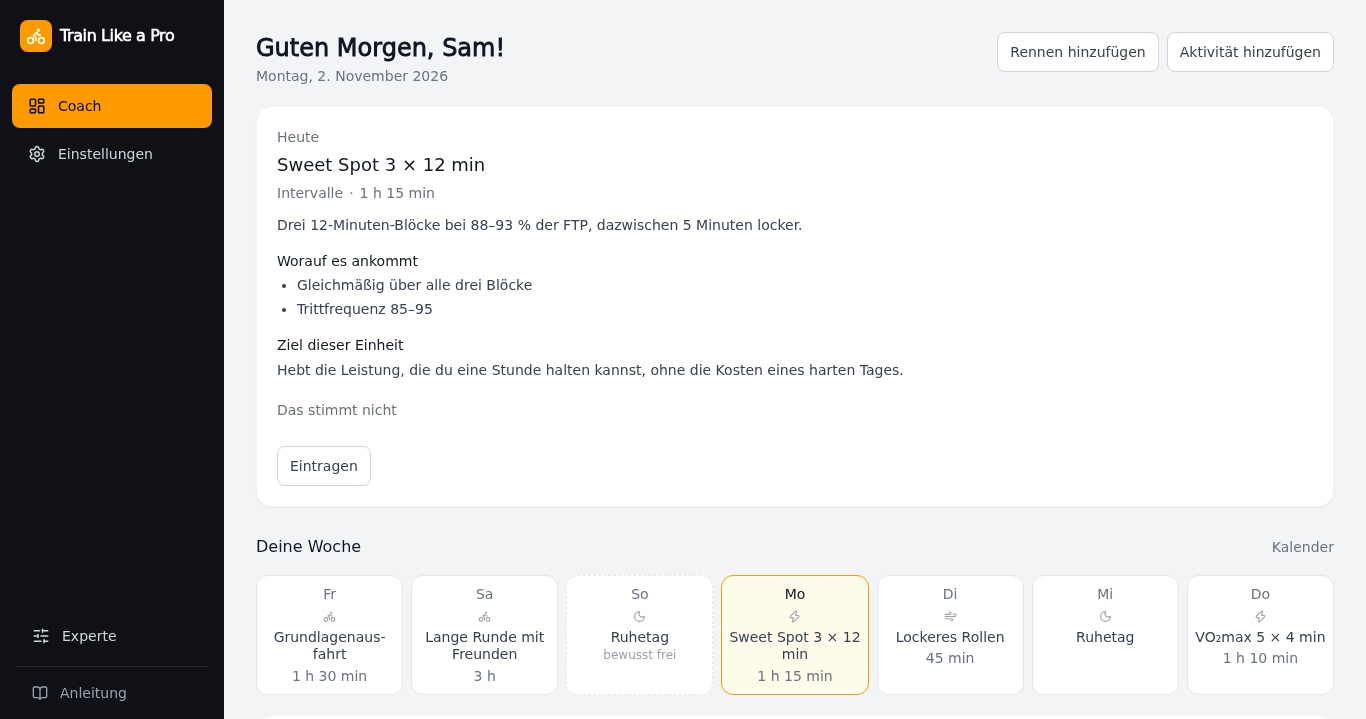
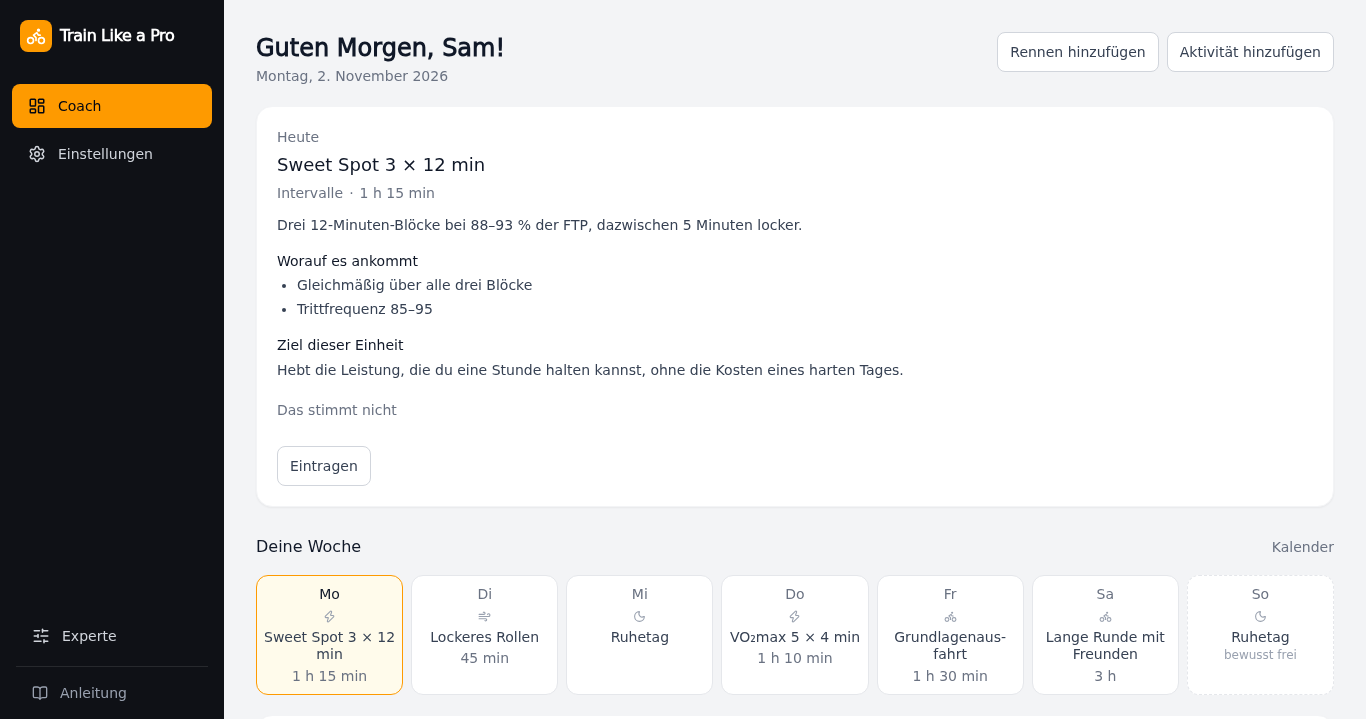
The week strip starts today, and the latest activity is open on the first screen (ai-trainer-ops#338)
The strip showed three days back; those are history, and the newest of
them now has its own card under the week instead of sitting behind "More"
(review of 2026-11-01, UX F4; owner decisions 2026-11-02). The landing
pictures are regenerated with the new strip.

Claude-Session: https://claude.ai/code/session_01GnPNhFWdHPsgsDeyjHr6bd

diff --git a/frontend/src/components/WeekStrip.test.tsx b/frontend/src/components/WeekStrip.test.tsx
@@ -9,7 +9,7 @@ import { setProfile } from '../queries/profile'
 import type { UserProfile } from '../types/domain'
 
 /** A day relative to today, which is where the strip is anchored since #672.
- *  The offsets the strip shows are -3 … +3. */
+ *  The offsets the strip shows are 0 … +6 (ai-trainer-ops#338). */
 const dayOffset = (offset: number) => formatLocalDate(addDays(new Date(), offset))
 
 const plan = (date: string, overrides: Partial<TrainingDay> = {}): TrainingDay => ({
@@ -45,7 +45,7 @@ describe('WeekStrip', () => {
       planTranslations: { 'Endurance Ride': 'Grundlagenfahrt' },
     })
     try {
-      renderStrip([plan(dayOffset(-1), { title: 'Endurance Ride' }), plan(dayOffset(0), { title: 'Recovery Spin' })])
+      renderStrip([plan(dayOffset(1), { title: 'Endurance Ride' }), plan(dayOffset(0), { title: 'Recovery Spin' })])
 
       expect(screen.getByText('Recovery Spin')).toHaveClass('opacity-60')
       expect(screen.getByText('Grundlagenfahrt')).not.toHaveClass('opacity-60')
@@ -55,7 +55,7 @@ describe('WeekStrip', () => {
   })
 
   it('always shows seven days, planned or not', () => {
-    renderStrip([plan(dayOffset(-3)), plan(dayOffset(0), { workoutType: 'rest' })])
+    renderStrip([plan(dayOffset(6)), plan(dayOffset(0), { workoutType: 'rest' })])
 
     // Seven day chips; "Calendar" is absent without a handler.
     expect(screen.getAllByRole('button')).toHaveLength(7)
@@ -66,33 +66,33 @@ describe('WeekStrip', () => {
     ['Sunday', '2026-06-28T09:00:00'],
     ['Monday', '2026-06-29T09:00:00'],
     ['Wednesday', '2026-07-01T09:00:00'],
-  ])('puts today in the middle on a %s', (_weekday, clock) => {
+  ])('puts today first on a %s', (_weekday, clock) => {
     // The old strip ran Monday–Sunday, so on a Sunday it showed six days of
     // history and no upcoming session at all (#672). The window is rolling now,
-    // and the same three days sit either side whatever the weekday.
+    // and starts today whatever the weekday (ai-trainer-ops#338).
     vi.useFakeTimers({ toFake: ['Date'] })
     vi.setSystemTime(new Date(clock))
 
-    renderStrip(Array.from({ length: 7 }, (_, i) => plan(dayOffset(i - 3))))
+    renderStrip(Array.from({ length: 7 }, (_, i) => plan(dayOffset(i))))
 
     const chips = screen.getAllByRole('button')
     expect(chips).toHaveLength(7)
-    expect(chips[3].getAttribute('aria-current')).toBe('date')
+    expect(chips[0].getAttribute('aria-current')).toBe('date')
     expect(chips.filter((chip) => chip.getAttribute('aria-current') === 'date')).toHaveLength(1)
   })
 
-  it('reaches three days back and three days forward', async () => {
+  it('reaches from today six days forward, and not back (ai-trainer-ops#338)', async () => {
     const onSelect = vi.fn()
-    // A weekday name cannot tell the ends apart — day -4 and day +3 share one —
+    // A weekday name cannot tell the ends apart — day -1 and day +6 share one —
     // so the window is read off the chips' own order instead.
-    renderStrip([plan(dayOffset(-4)), plan(dayOffset(4))], { onSelect })
+    renderStrip([plan(dayOffset(-1)), plan(dayOffset(7))], { onSelect })
 
     const chips = screen.getAllByRole('button')
     await userEvent.click(chips[0])
-    expect(onSelect).toHaveBeenCalledWith(dayOffset(-3))
+    expect(onSelect).toHaveBeenCalledWith(dayOffset(0))
 
     await userEvent.click(chips[6])
-    expect(onSelect).toHaveBeenCalledWith(dayOffset(3))
+    expect(onSelect).toHaveBeenCalledWith(dayOffset(6))
 
     // The two planned days sit just outside the window, so nothing is planned
     // inside it: seven empty chips.
@@ -115,7 +115,7 @@ describe('WeekStrip', () => {
     const onSelect = vi.fn()
     const empty = dayOffset(1)
     const weekday = new Date(`${empty}T00:00:00`).toLocaleDateString(undefined, { weekday: 'long' })
-    renderStrip([plan(dayOffset(-2))], { onSelect })
+    renderStrip([plan(dayOffset(2))], { onSelect })
 
     await userEvent.click(screen.getByRole('button', { name: `${weekday} — nothing planned` }))
 
@@ -124,7 +124,7 @@ describe('WeekStrip', () => {
 
   it('spells out for a screen reader what the layout says to the eye', () => {
     // The chip itself reads "Tu", an icon, the title and the duration.
-    const date = dayOffset(-1)
+    const date = dayOffset(1)
     const weekday = new Date(`${date}T00:00:00`).toLocaleDateString(undefined, { weekday: 'long' })
     renderStrip([plan(date, { workoutType: 'recovery' })])
 
@@ -143,7 +143,7 @@ describe('WeekStrip', () => {
 
   it('keeps today as the reference point while another day is selected', () => {
     const today = formatLocalDate(new Date())
-    const other = dayOffset(-2)
+    const other = dayOffset(2)
     renderStrip([plan(today), plan(other)], { selectedDate: other })
 
     const current = screen.getAllByRole('button').filter(
@@ -161,13 +161,13 @@ describe('WeekStrip', () => {
       return [...chip.querySelectorAll('svg')].map((svg) => svg.getAttribute('class'))
     }
     renderStrip([
-      plan(dayOffset(-1), { sport: 'running', title: 'Easy Run' }),
+      plan(dayOffset(3), { sport: 'running', title: 'Easy Run' }),
       plan(dayOffset(0), { sport: 'cycling', title: 'Easy Ride' }),
       plan(dayOffset(1), { sport: 'strength', workoutType: 'strength', title: 'Gym' }),
       plan(dayOffset(2), { sport: 'running', workoutType: 'intervals', title: 'Track' }),
     ])
 
-    expect(dayIcon(-1)).toEqual([expect.stringContaining('lucide-footprints')])
+    expect(dayIcon(3)).toEqual([expect.stringContaining('lucide-footprints')])
     expect(dayIcon(0)).toEqual([expect.stringContaining('lucide-bike')])
     expect(dayIcon(1)).toEqual([expect.stringContaining('lucide-dumbbell')])
     // A type that says what the session is for keeps its own icon in any sport.
@@ -188,7 +188,7 @@ describe('WeekStrip', () => {
   it('marks an untranslated title as English, so it is hyphenated as English (ai-trainer-ops#324)', () => {
     useAppStore.setState({ uiLanguage: 'de', planTranslations: { 'Endurance Ride': 'Grundlagenfahrt' } })
     try {
-      renderStrip([plan(dayOffset(-1), { title: 'Endurance Ride' }), plan(dayOffset(0), { title: 'Recovery Spin' })])
+      renderStrip([plan(dayOffset(1), { title: 'Endurance Ride' }), plan(dayOffset(0), { title: 'Recovery Spin' })])
 
       expect(screen.getByText('Recovery Spin')).toHaveAttribute('lang', 'en')
       expect(screen.getByText('Grundlagenfahrt')).not.toHaveAttribute('lang')
@@ -255,7 +255,7 @@ describe('WeekStrip', () => {
   })
 
   it('only ticks a two-a-day off once both halves are done', () => {
-    const date = dayOffset(-3)
+    const date = dayOffset(0)
     renderStrip([
       plan(date, { slot: 0, completed: true }),
       plan(date, { slot: 1, completed: false }),

diff --git a/frontend/src/pages/DashboardPage.test.tsx b/frontend/src/pages/DashboardPage.test.tsx
@@ -131,7 +131,7 @@ const PREV_LOGIN_KEY = accountKey('ai_trainer_previous_login', 'test@example.com
 // on a Sunday "tomorrow" was next Monday and not in the strip at all: the four
 // tests that click tomorrow's chip could not find it, and this file went red
 // every Sunday regardless of what the branch changed. The strip is a rolling
-// window centred on today since #672, so `twoDaysAgo` through
+// window since #672, starting today since ai-trainer-ops#338, so `today` through
 // `threeDaysFromNow` are in it on every weekday — the pinned clock now only
 // keeps the dates themselves stable.
 //
@@ -961,8 +961,13 @@ describe('DashboardPage — Activities section layout', () => {
   })
 
   it('shows the recent-activities header when activities exist', async () => {
+    // The newest ride sits open under "Your latest activity" (ai-trainer-ops#338
+    // F4), so the history needs a second one.
     setupStore({
-      rideMetricsHistory: [makeRide({ activityDate: yesterday })],
+      rideMetricsHistory: [
+        makeRide({ activityDate: yesterday, stravaActivityId: 1 }),
+        makeRide({ activityDate: twoDaysAgo, stravaActivityId: 2 }),
+      ],
     })
     renderDashboard()
     expect(await screen.findByText('Recent activities')).toBeInTheDocument()
@@ -1000,6 +1005,54 @@ describe('DashboardPage — the coach first, the rest one tap away', () => {
     // Above the chat, not two screens down under it (ai-trainer-ops#338 F5).
     const coach = screen.getByRole('heading', { name: 'Coach Timeline' })
     expect(needsAnswer.compareDocumentPosition(coach) & Node.DOCUMENT_POSITION_FOLLOWING).toBeTruthy()
+  })
+
+  it('keeps the latest ride open on the first screen, not behind "More" (ai-trainer-ops#338 F4)', async () => {
+    setupStore({
+      rideMetricsHistory: [
+        makeRide({ activityDate: yesterday, activityName: 'Fresh Ride', stravaActivityId: 1 }),
+        makeRide({ activityDate: twoDaysAgo, activityName: 'Older Ride', stravaActivityId: 2 }),
+      ],
+    })
+    const { container } = renderDashboard()
+
+    const latest = await screen.findByRole('heading', { name: 'Your latest activity' })
+    const fresh = screen.getByText('Fresh Ride')
+    const more = container.querySelector('details')!
+    expect(latest.parentElement!.contains(fresh)).toBe(true)
+    expect(more.contains(fresh)).toBe(false)
+    // Shown once, and the older ride stays history.
+    expect(screen.getAllByText('Fresh Ride')).toHaveLength(1)
+    expect(more.contains(screen.getByText('Older Ride'))).toBe(true)
+    // Above the coach, like a ride that needs an answer.
+    const coach = screen.getByRole('heading', { name: 'Coach Timeline' })
+    expect(latest.compareDocumentPosition(coach) & Node.DOCUMENT_POSITION_FOLLOWING).toBeTruthy()
+  })
+
+  it('leaves a ride from two days ago behind "More"', async () => {
+    setupStore({
+      rideMetricsHistory: [makeRide({ activityDate: twoDaysAgo, activityName: 'Older Ride', stravaActivityId: 2 })],
+    })
+    const { container } = renderDashboard()
+
+    await waitFor(() => expect(container.querySelector('details')).not.toBeNull())
+    expect(container.querySelector('details')!.contains(screen.getByText('Older Ride'))).toBe(true)
+    expect(screen.queryByRole('heading', { name: 'Your latest activity' })).not.toBeInTheDocument()
+  })
+
+  it('does not show the newest ride twice when it needs an answer', async () => {
+    setupStore({
+      rideMetricsHistory: [
+        makeRide({ activityDate: today, activityName: 'Unclear Ride', stravaActivityId: 2, purposeQuestionOpen: true }),
+        makeRide({ activityDate: yesterday, activityName: 'Settled Ride', stravaActivityId: 1 }),
+      ],
+    })
+    renderDashboard()
+
+    await screen.findByText('Needs your answer')
+    expect(screen.getAllByText('Unclear Ride')).toHaveLength(1)
+    // The older ride is not the latest, so it is not promoted in its place.
+    expect(screen.queryByRole('heading', { name: 'Your latest activity' })).not.toBeInTheDocument()
   })
 
   it('keeps an answered ride where it was for the rest of the visit', async () => {

diff --git a/frontend/src/components/WeekStrip.tsx b/frontend/src/components/WeekStrip.tsx
@@ -19,22 +19,21 @@ import { cardTitle, textButton } from './ui'
  * whole, and seeing it whole is the point: where the hard days sit, what is
  * already done, what is coming.
  *
- * The seven days are a *rolling* window centred on today, not Monday–Sunday
- * (#672). A calendar week answers "what did I just ride, what is next" well
- * exactly once: on a Sunday the old strip showed six days of history and no
- * upcoming session at all, because tomorrow belonged to next week. Centring
- * costs nothing and makes the answer the same on every weekday.
+ * The seven days are a *rolling* window starting today, not Monday–Sunday
+ * (#672). A calendar week answers "what is next" well exactly once: on a Sunday
+ * the old strip showed six days of history and no upcoming session at all,
+ * because tomorrow belonged to next week. It used to be centred on today, three
+ * days back; those three days are history, and history has its own place (the
+ * latest ride under the hero, the rest behind "More"), so the strip now shows
+ * the week ahead (the owner's call, ai-trainer-ops#338).
  *
  * The chips used to link to `/workout/:date`, which answered "what is Wednesday?"
  * by throwing away the dashboard. Since #634 they select instead, and the hero
  * above re-renders — the page you are on is already the right shape for the
  * answer.
  */
-/** How far back and forward the strip reaches.  Three either side keeps today
- *  in the middle column of a seven-wide grid, which is what makes the window
- *  legible without a marker. */
-const DAYS_EITHER_SIDE = 3
-const DAYS_SHOWN = DAYS_EITHER_SIDE * 2 + 1
+/** Today and the six days after it: today is always the first column. */
+const DAYS_SHOWN = 7
 
 export default function WeekStrip({
   plan,
@@ -63,14 +62,14 @@ export default function WeekStrip({
   // Not a Map keyed by date: that keeps only the last entry per date, which is
   // the same session-swallowing bug as `plan.find()` in another shape (#645).
   const week = Array.from({ length: DAYS_SHOWN }, (_, index) => {
-    const date = formatLocalDate(addDays(now, index - DAYS_EITHER_SIDE))
+    const date = formatLocalDate(addDays(now, index))
     return { date, sessions: sessionsForDate(plan, date) }
   })
 
   return (
     <section>
       <div className="mb-2 flex items-baseline justify-between">
-        {/* Not "This week": the window is Thu–Wed on a Sunday, and a heading
+        {/* Not "This week": the window is Sun–Sat on a Sunday, and a heading
             that claims the calendar week would be lying about it (#672). */}
         <h2 className={cardTitle}>{t('Your week')}</h2>
         {onShowMore && (

diff --git a/frontend/src/pages/DashboardPage.tsx b/frontend/src/pages/DashboardPage.tsx
@@ -183,7 +183,16 @@ export default function DashboardPage() {
     return keysAwaitingAnswer.has(key) || newlyAwaiting.includes(key)
   }
   const ridesAwaitingAnswer = recentRides.filter(needsAnswer)
-  const otherRides = recentRides.filter((ride) => !needsAnswer(ride))
+  // The ride the athlete just did stays open on the first screen: day 3 is "I
+  // rode — did the coach notice?", and behind "More" the answer was hidden
+  // (review of 2026-11-01, ai-trainer-ops#338 F4). Only the newest, only from
+  // today or yesterday, and not when it already sits under "Needs your answer".
+  const yesterday = formatLocalDate(subDays(parseLocalDate(today), 1))
+  const latestRide =
+    latestRecentRide && latestRecentRide.activityDate >= yesterday && !needsAnswer(latestRecentRide)
+      ? latestRecentRide
+      : null
+  const otherRides = recentRides.filter((ride) => !needsAnswer(ride) && ride !== latestRide)
 
   return (
     <div className="space-y-5">
@@ -307,6 +316,13 @@ export default function DashboardPage() {
         <div className={card}>
           <h2 className={cardTitle}>{t('Needs your answer')}</h2>
           <div className="divide-y divide-gray-100">{ridesAwaitingAnswer.map(renderRide)}</div>
+        </div>
+      )}
+
+      {latestRide && (
+        <div className={card}>
+          <h2 className={cardTitle}>{t('Your latest activity')}</h2>
+          {renderRide(latestRide)}
         </div>
       )}
 

diff --git a/frontend/e2e/stubbed/dashboard.spec.ts b/frontend/e2e/stubbed/dashboard.spec.ts
@@ -216,7 +216,9 @@ test.describe('a stranger finishes onboarding', () => {
     await page.getByLabel('Duration (minutes)').fill('45')
     await page.getByRole('button', { name: 'Save session' }).click()
     await expect(page.getByRole('heading', { name: 'Log a session' })).toHaveCount(0)
-    await page.getByText(/^More:/).click()
+    // Today's activity is the latest one, open on the first screen rather than
+    // behind "More" (ai-trainer-ops#338 F4).
+    await expect(page.getByRole('heading', { name: 'Your latest activity' })).toBeVisible()
     await expect(page.getByText('Entered by you').first()).toBeVisible()
 
     const { scrollWidth, clientWidth } = await page.evaluate(() => ({

diff --git a/frontend/e2e/stubbed/landing-screenshot.spec.ts b/frontend/e2e/stubbed/landing-screenshot.spec.ts
@@ -172,7 +172,8 @@ async function seedRides(page: Page, token: string) {
 
 /** Replace the stub's fortnight with the realistic one, as the athlete. */
 async function writeRealisticPlan(page: Page, token: string) {
-  // From three days back, so the week strip shows days already done.
+  // From three days back, so the calendar shows days already done; the week
+  // strip starts today (ai-trainer-ops#338).
   const plan = Array.from({ length: 17 }, (_, index) => {
     const offset = index - 3
     // Today is the key session, so the picture leads with it.

diff --git a/frontend/src/i18n/de.ts b/frontend/src/i18n/de.ts
@@ -14,6 +14,7 @@ export const DE: Record<string, string> = {
   'Your first summary lands once a ride has been analysed.':
     'Dein erster Überblick erscheint, sobald eine Einheit ausgewertet ist.',
   'Needs your answer': 'Braucht deine Antwort',
+  'Your latest activity': 'Deine letzte Aktivität',
   Guide: 'Anleitung',
   'Recent activities': 'Letzte Aktivitäten',
   'Training calendar': 'Trainingskalender',
